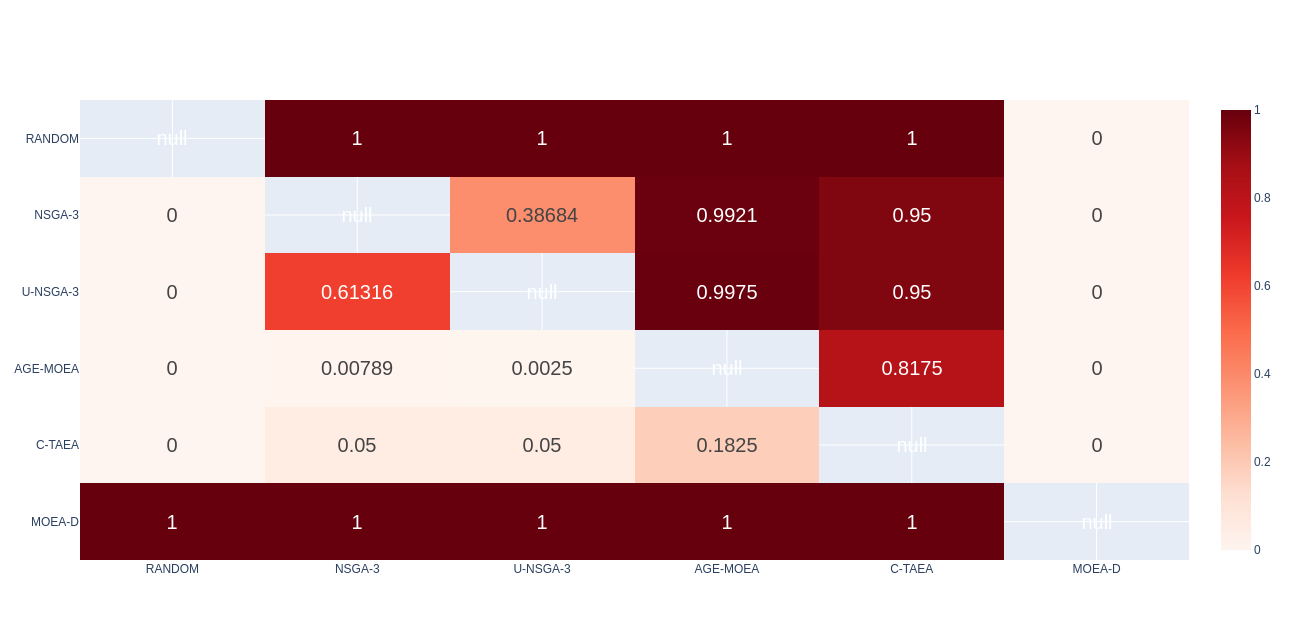
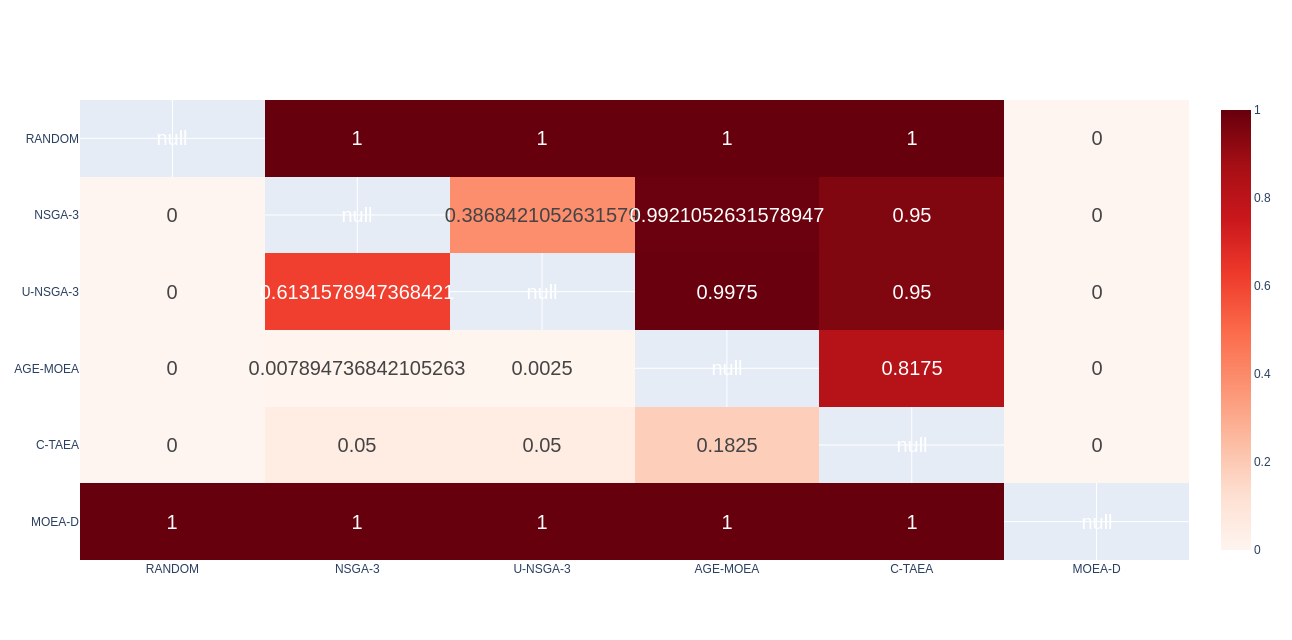
Update to statistical tests

Changed region(s): [[0.3406, 0.3125, 0.6502, 0.3438], [0.1858, 0.5625, 0.3715, 0.5938], [0.2167, 0.4375, 0.3406, 0.4688]]

diff --git a/UAVS/Experiment1/RunStatisticalTest.py b/UAVS/Experiment1/RunStatisticalTest.py
@@ -1,0 +1,12 @@
+from StatisticalTest import StatisticalTest
+
+nsga = [776, 652, 627, 481, 639, 658, 542, 841, 494, 887, 664, 774, 603, 571, 555, 665, 888, 575, 732]
+unsga = [653, 617, 393, 467, 754, 647, 342, 529, 491, 658, 695, 401, 845, 646, 639, 642, 537, 616, 742, 755]
+agemoea = [1304, 968, 1156, 1242, 1243, 1104, 817, 1153, 1246, 1410, 1438, 1295, 1070, 1336, 1016, 1199, 940, 1373, 1256, 1089]
+ctaea = [1649, 1461, 1296, 1567, 1230, 1404, 1744, 1660, 1315, 288, 1239, 1348, 1688, 1488, 1165, 1249, 1913, 1795, 1651, 1416]
+moead = [3, 0, 0, 0, 0, 0, 0, 0, 0, 1, 1, 2, 0, 0, 0, 0, 0, 0, 0, 0]
+random = [9, 8, 5, 6, 6, 8, 5, 4, 7, 9, 10, 7, 9, 6, 6, 7, 6, 6, 10, 8]
+
+sTest = StatisticalTest(nsga, unsga, agemoea, ctaea, moead, random)
+sTest.runTest('statistical_result.txt')
+sTest.makeHeatmaps()

diff --git a/RescueRobotPy/SmallExperiment2/RunStatisticalTest.py b/RescueRobotPy/SmallExperiment2/RunStatisticalTest.py
@@ -1,7 +1,4 @@
-import sys
-sys.path.append('/home/RescueRobotGA/StatisticalEvaluation')
-
-from ...StatisticalEvaluation.StatisticalTest import StatisticalTest
+from StatisticalTest import StatisticalTest
 
 nsga = [48, 90, 12, 80, 86, 43, 32, 65, 21, 0, 118, 98, 108, 11, 59, 57, 17, 18, 33, 77]
 unsga = [37, 2, 95, 53, 38, 34, 77, 89, 80, 31, 69, 31, 19, 40, 68, 10, 36, 19, 66, 30]
